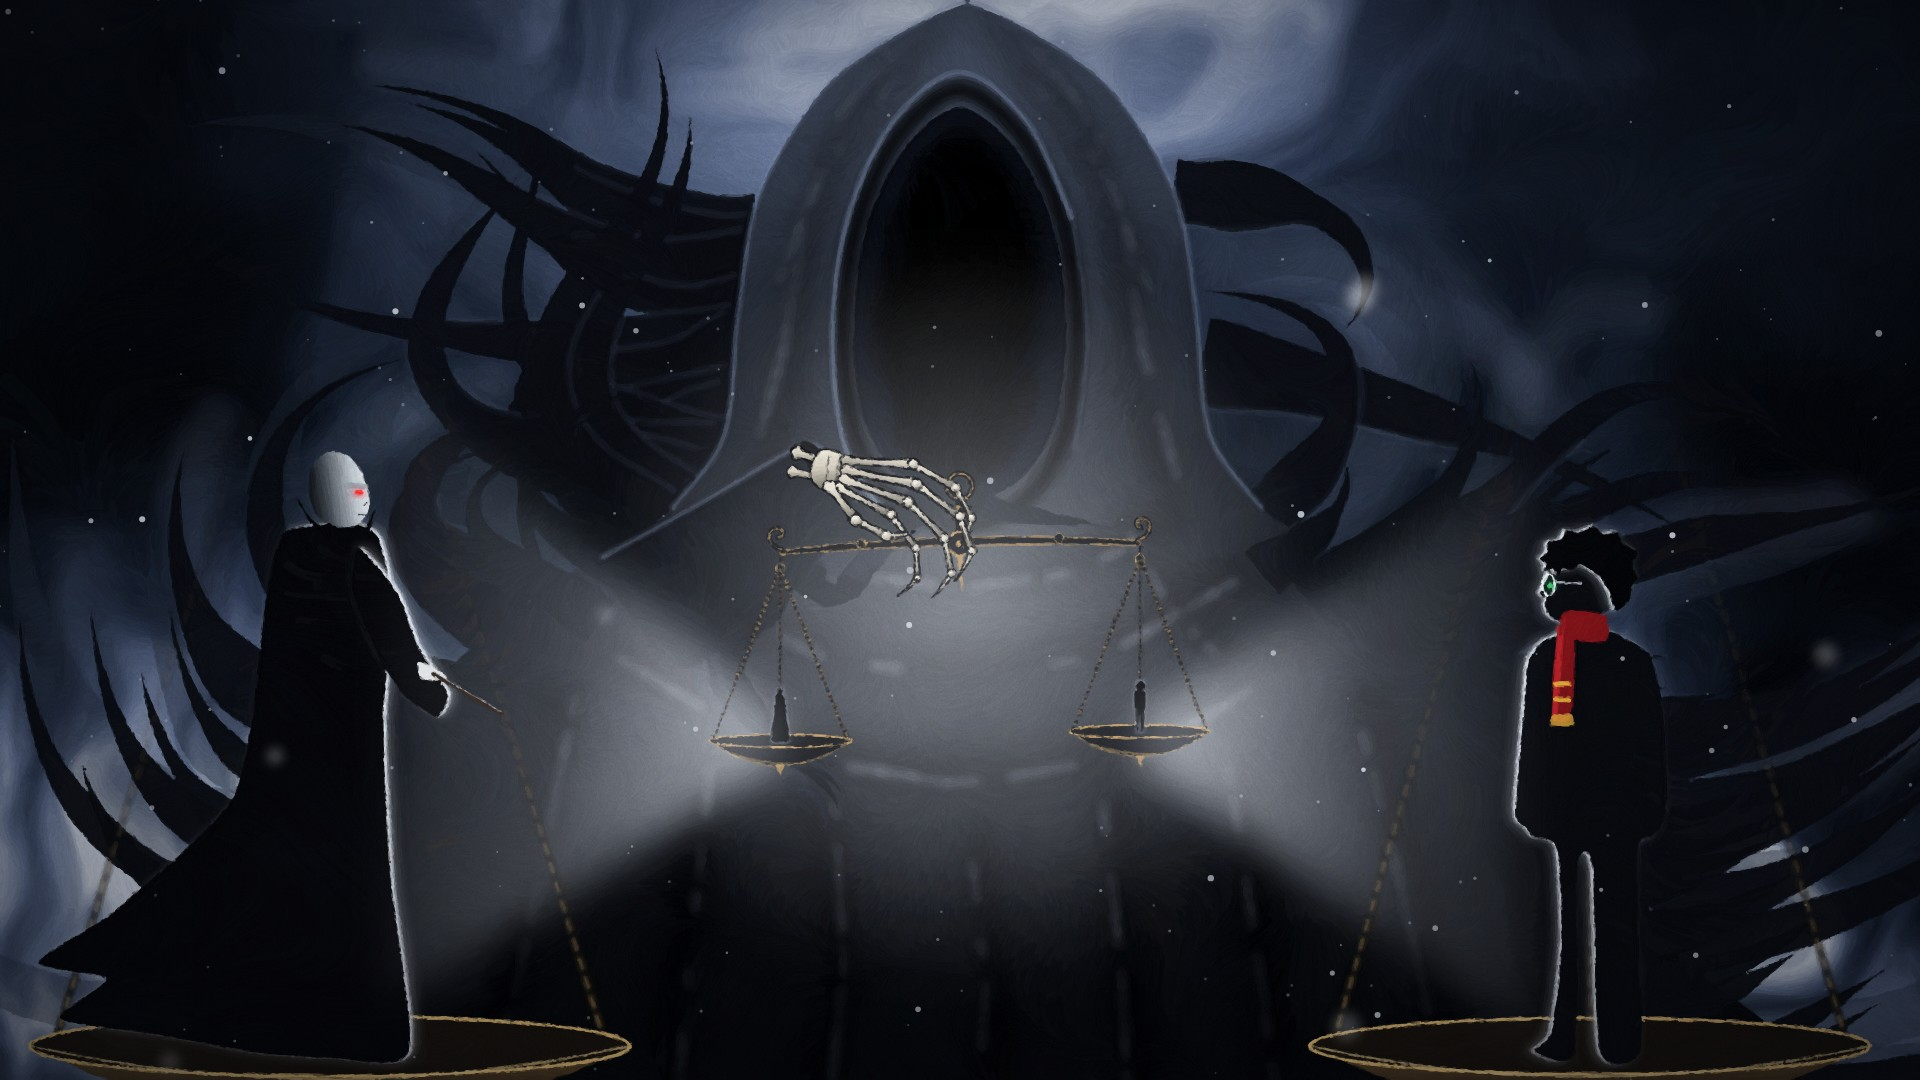
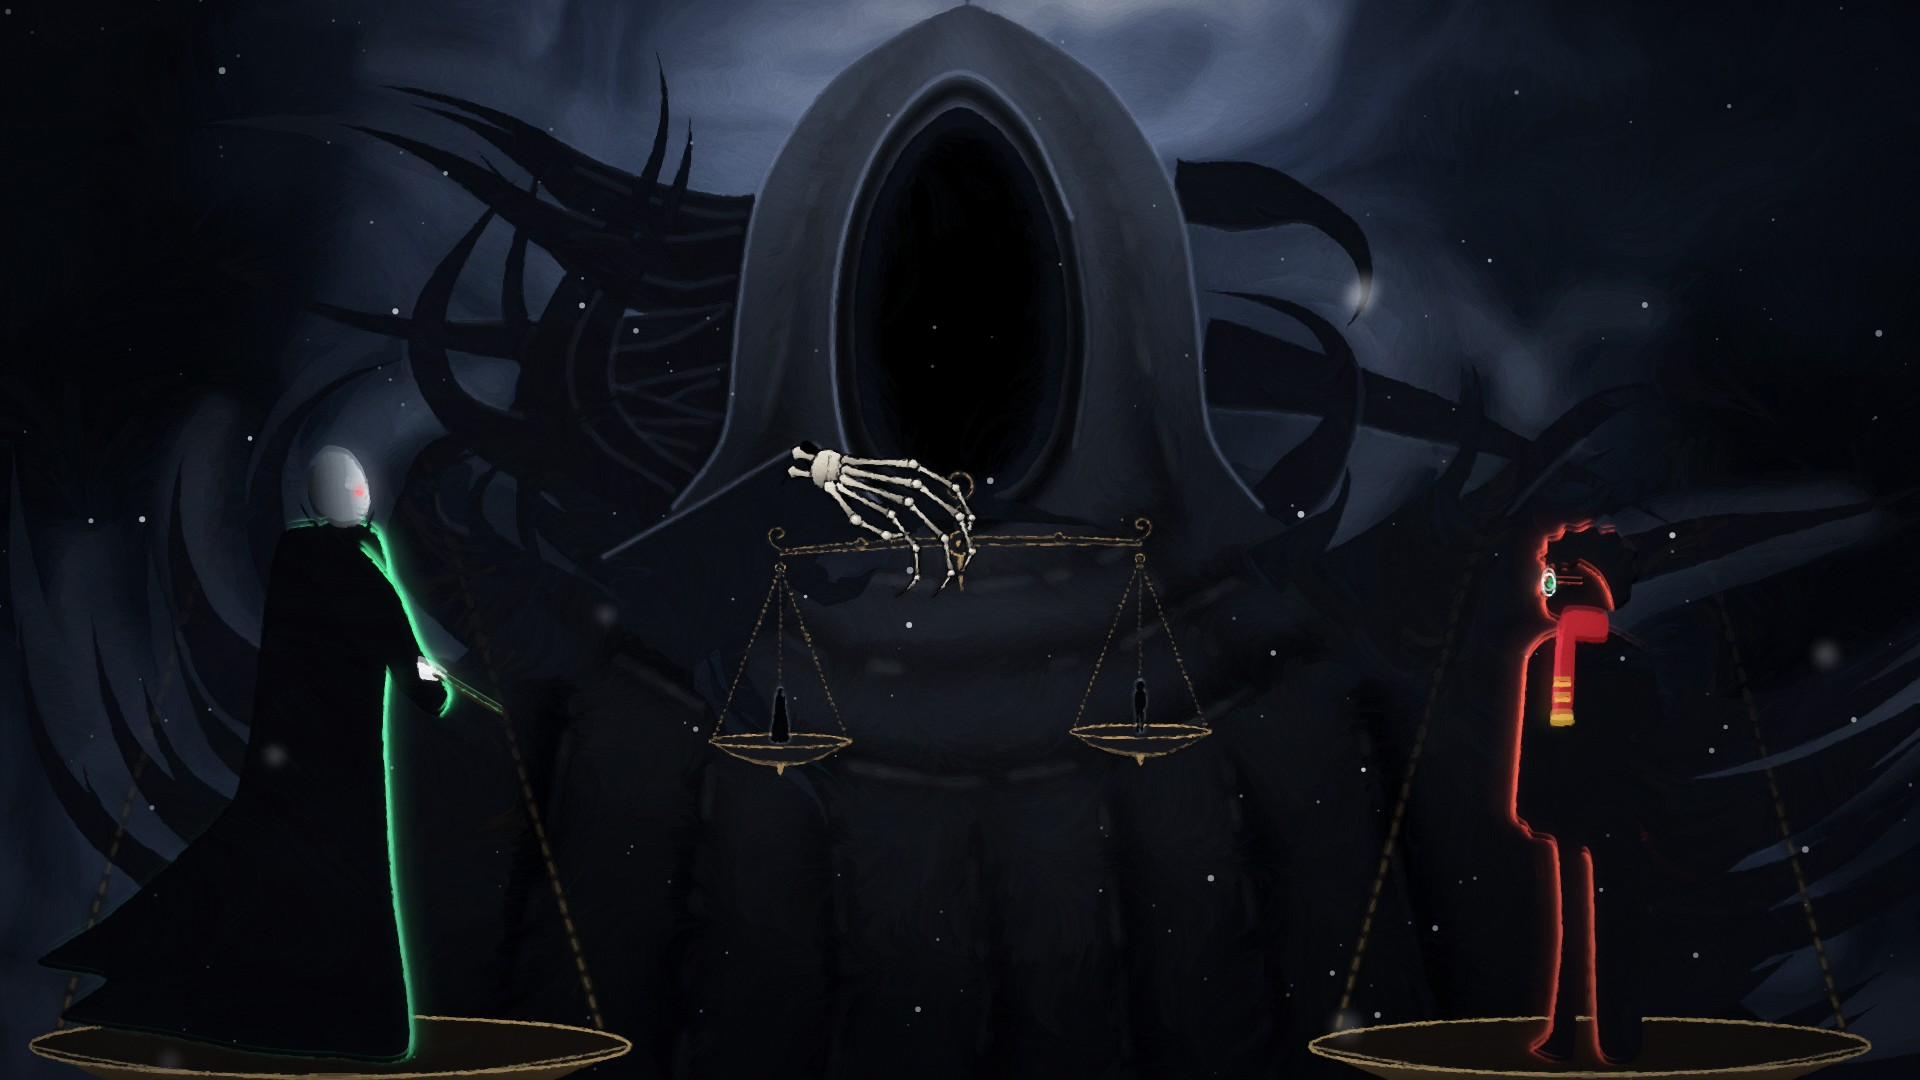
SF01: coloured rim light instead of beams
Drop the light beams and central glow; darken the surroundings and let
the figures carry the light as rims — green for Voldemort, red for
Harry, the colours of their spells in the duel. Rims are re-laid after
painting so they stay clean, with a halo that leans only toward the light.

Claude-Session: https://claude.ai/code/session_01TdEdvbJYvxkTj3EHXsszVH

diff --git a/projects/master-of-death/src/styleframes/SF01Death.tsx b/projects/master-of-death/src/styleframes/SF01Death.tsx
@@ -5,9 +5,10 @@ import {HarrySilhouette, MiniSilhouette, VoldemortSilhouette} from '../character
 import {Filters} from '../fx/Filters';
 import {Snow} from '../fx/Snow';
 import {Surface} from '../fx/Surface';
-import {noiseField, rampRGB, rgba, type Ctx, type P} from '../paint/canvas';
+import {noiseField, rampRGB, type Ctx, type P} from '../paint/canvas';
 import {drawDeath, drawSleeve} from '../paint/death';
 import {Painted} from '../paint/Painted';
+import {rasterize} from '../paint/rasterize';
 import {Scale} from '../props/Scale';
 import {C, H, W} from '../theme';
 
@@ -49,6 +50,10 @@ const BigPan: React.FC<{x: number; y: number; rx: number; id: string; children?:
 
 // 00:04 — Death holds the balance; from its two small pans the light throws
 // the two people out, large, onto pans of their own at the front of frame.
+// Rim colours: the duel's two lights, worn by the two who will cast them.
+const RIM_V = '#4dff95';
+const RIM_H = '#ff4b3a';
+
 export const SF01Death: React.FC<{frame?: number; tilt?: number}> = ({frame = 40, tilt = 1.5}) => {
   const t = frame / 24;
   const ring: P = [960, 486];
@@ -63,40 +68,13 @@ export const SF01Death: React.FC<{frame?: number; tilt?: number}> = ({frame = 40
     noiseField(ctx, W, H, noise, {scale: 4, freq: 0.0014, t: t * 0.05, warp: 0.6}, (x, y, n) => {
       const pool = Math.exp(-(((x - 960) / 560) ** 2 + ((y - 40) / 380) ** 2));
       // white mist rolling in low on both sides, where the big figures stand
-      const mist = Math.exp(-(((y - 880) / 260) ** 2)) * (0.35 + 0.65 * Math.min(1, Math.abs(x - 960) / 700));
-      const v = Math.max(0, Math.min(1, pool * (0.8 + n * 0.5) + mist * (0.55 + n * 1.1) + n * 0.12 + 0.05));
+      const mist = Math.exp(-(((y - 900) / 220) ** 2)) * (0.2 + 0.3 * Math.min(1, Math.abs(x - 960) / 700));
+      const v = Math.max(0, Math.min(1, pool * (0.7 + n * 0.5) + mist * (0.4 + n * 0.9) + n * 0.1 + 0.04));
       const [r, g, b] = rampRGB([[0, '#05070b'], [0.25, '#121925'], [0.5, '#2c3850'], [0.75, '#6a7a9c'], [1, '#d4dcea']], v);
       return [r, g, b, 1];
     });
-    drawDeath(ctx, noise, {cx: 960, cy: 300, k: 0.9, t, rim: '#7888aa', glow, glowAmt: 1});
+    drawDeath(ctx, noise, {cx: 960, cy: 300, k: 0.9, t, rim: '#7888aa', glow, glowAmt: 0.35});
     drawSleeve(ctx, noise, [640, 610], [826, 474], {w: 118, t, rim: '#7888aa'});
-  };
-
-  // light thrown from each small pan out to its big double
-  const beams = (ctx: Ctx, a: number) => {
-    ctx.save();
-    ctx.globalCompositeOperation = 'screen';
-    ctx.filter = 'blur(22px)';
-    for (const [from, to, spread] of [[panL, [bigL[0] + 60, 640], 260], [panR, [bigR[0] - 60, 700], 240]] as [P, P, number][]) {
-      const g = ctx.createLinearGradient(from[0], from[1], to[0], to[1]);
-      g.addColorStop(0, rgba('#dfe6f3', 0.75 * a));
-      g.addColorStop(0.6, rgba('#cfd8ea', 0.25 * a));
-      g.addColorStop(1, rgba('#cfd8ea', 0.08 * a));
-      ctx.fillStyle = g;
-      ctx.beginPath();
-      ctx.moveTo(from[0], from[1] - 20);
-      ctx.lineTo(to[0], to[1] - spread);
-      ctx.lineTo(to[0], to[1] + spread * 1.4);
-      ctx.lineTo(from[0], from[1] + 20);
-      ctx.closePath();
-      ctx.fill();
-    }
-    const cg = ctx.createRadialGradient(glow[0], glow[1], 10, glow[0], glow[1], 360);
-    cg.addColorStop(0, rgba('#e3e9f5', 0.45 * a));
-    cg.addColorStop(1, rgba('#e3e9f5', 0));
-    ctx.fillStyle = cg;
-    ctx.fillRect(0, 0, W, H);
-    ctx.restore();
   };
 
   const under = (
@@ -113,15 +91,38 @@ export const SF01Death: React.FC<{frame?: number; tilt?: number}> = ({frame = 40
         <BoneHand k={1.22} curl={0.62} spread={0.75} thumb={0.8} hook={0.7} />
       </g>
       <BigPan x={bigL[0]} y={bigL[1]} rx={300} id="panL">
-        <VoldemortSilhouette k={5.6} rim="#e8eef8" />
+        <VoldemortSilhouette k={5.6} rim={RIM_V} rimW={1.3} />
       </BigPan>
       <BigPan x={bigR[0]} y={bigR[1]} rx={280} id="panR">
         <g transform="scale(-1 1)">
-          <HarrySilhouette k={5.1} rim="#e8eef8" />
+          <HarrySilhouette k={5.1} rim={RIM_H} rimW={1.3} />
         </g>
       </BigPan>
     </>
   );
+
+  // The painter dulls thin saturated edges, so the rims go back on top:
+  // figures rendered with black bodies, added with 'screen' (black adds
+  // nothing), once sharp and once blurred for a soft halo — no light source.
+  const rimBloom = async (ctx: Ctx) => {
+    const layers: [React.ReactNode, number][] = [
+      [<g transform={`translate(${bigL[0]} ${bigL[1]})`}><VoldemortSilhouette k={5.6} rim={RIM_V} rimW={1.3} body="#000000" /></g>, 1],
+      [<g transform={`translate(${bigR[0]} ${bigR[1]}) scale(-1 1)`}><HarrySilhouette k={5.1} rim={RIM_H} rimW={1.3} body="#000000" /></g>, -1],
+    ];
+    for (const [el, dir] of layers) {
+      const img = await rasterize(el);
+      ctx.save();
+      ctx.globalCompositeOperation = 'screen';
+      // halo leans toward the light only, so the back edge stays dark
+      ctx.filter = 'blur(9px)';
+      ctx.globalAlpha = 0.45;
+      ctx.drawImage(img, dir * 7, 0);
+      ctx.filter = 'none';
+      ctx.globalAlpha = 0.6;
+      ctx.drawImage(img, 0, 0);
+      ctx.restore();
+    }
+  };
 
   return (
     <AbsoluteFill style={{background: '#05070b'}}>
@@ -130,11 +131,10 @@ export const SF01Death: React.FC<{frame?: number; tilt?: number}> = ({frame = 40
         renderKey={`sf01-${frame}`}
         before={(ctx, noise) => {
           backdrop(ctx, noise);
-          beams(ctx, 0.6);
         }}
         under={under}
         flow="swirl"
-        after={(ctx) => beams(ctx, 0.5)}
+        after={rimBloom}
       />
       <Snow frame={frame} layer="far" count={160} seed="sf1" wind={0.2} color="#c9d2e2" />
       <Snow frame={frame} layer="mid" count={40} seed="sf1" wind={0.2} color="#dfe5ef" />

diff --git a/projects/master-of-death/src/characters/Figures.tsx b/projects/master-of-death/src/characters/Figures.tsx
@@ -14,7 +14,7 @@ type Lit = {k?: number; rim?: string; rimW?: number; body?: string};
 const Rimmed: React.FC<{d: string; rim: string; body: string; off: number; blur?: boolean}> = ({d, rim, body, off, blur = true}) => (
   <g>
     {/* soft spill first, then the thin hard rim */}
-    <path d={d} fill={rim} opacity={0.35} transform={`translate(${off * 2.2} ${-off * 0.3})`} filter="url(#blur-6)" />
+    <path d={d} fill={rim} opacity={0.3} transform={`translate(${off * 1.8} ${-off * 0.3})`} filter="url(#blur-3)" />
     <path d={d} fill={rim} transform={`translate(${off} ${-off * 0.2})`} filter={blur ? 'url(#blur-1.5)' : undefined} />
     <path d={d} fill={body} />
   </g>
@@ -75,10 +75,10 @@ export const VoldemortSilhouette: React.FC<Lit & {eye?: number}> = ({k = 5, rim 
       <g transform={`translate(${1 * k} ${-94 * k}) scale(0.8) translate(${-1 * k} ${94 * k})`}>
       <defs>
         <linearGradient id="vHead" x1="1" y1="0" x2="0" y2="0.2">
-          <stop offset="0" stopColor="#f1f4f6" />
-          <stop offset="0.35" stopColor="#b9c1c9" />
-          <stop offset="0.8" stopColor="#3d434b" />
-          <stop offset="1" stopColor="#15181d" />
+          <stop offset="0" stopColor={rim} />
+          <stop offset="0.12" stopColor="#b4bcc2" />
+          <stop offset="0.45" stopColor="#4a5158" />
+          <stop offset="1" stopColor="#101317" />
         </linearGradient>
       </defs>
       <path d={head} fill="url(#vHead)" />

diff --git a/projects/master-of-death/src/paint/Painted.tsx b/projects/master-of-death/src/paint/Painted.tsx
@@ -12,7 +12,7 @@ import {rasterize} from './rasterize';
 export const Painted: React.FC<{
   under?: React.ReactNode;
   before?: (ctx: Ctx, noise: Noise) => void;
-  after?: (ctx: Ctx, noise: Noise) => void;
+  after?: (ctx: Ctx, noise: Noise) => void | Promise<void>;
   options?: PaintOptions;
   flow?: 'swirl' | 'horizontal' | 'none';
   renderKey: string;
@@ -39,7 +39,7 @@ export const Painted: React.FC<{
           ? (x: number, y: number) => noise.fbm(x * 0.002, y * 0.002, 5, 3) * 0.9
           : undefined;
     paintStrokes(src, out, {radii: [9, 5, 2.8, 1.6, 1], threshold: 12, maxLen: 14, colorTol: 26, jitter: 0.045, alpha: 0.78, bristles: 4, seed: 11, flow: flowFn, ...options});
-    after?.(out, noise);
+    await after?.(out, noise);
   };
   return <PaintCanvas draw={draw} renderKey={renderKey} />;
 };
